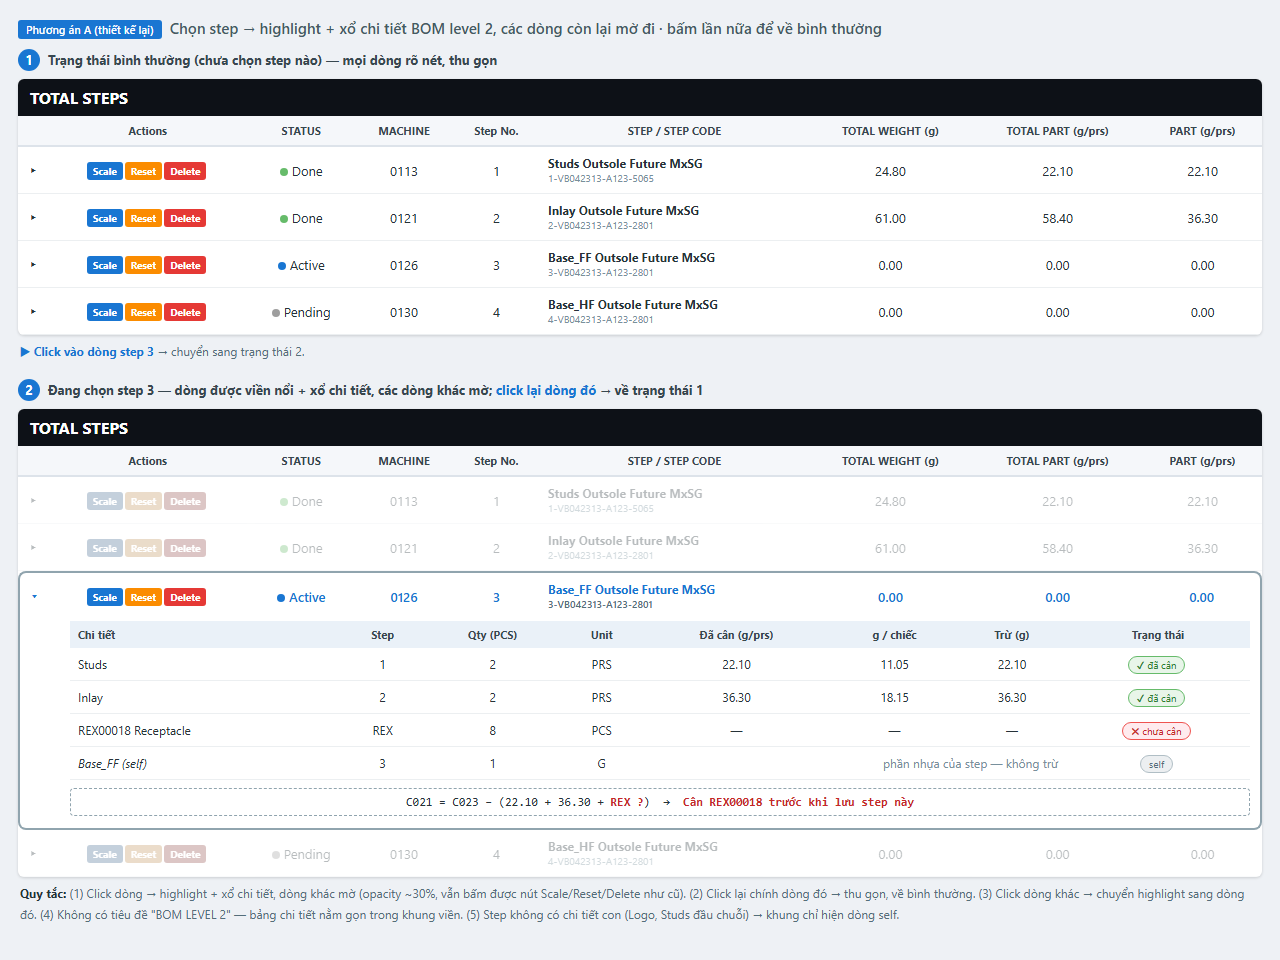
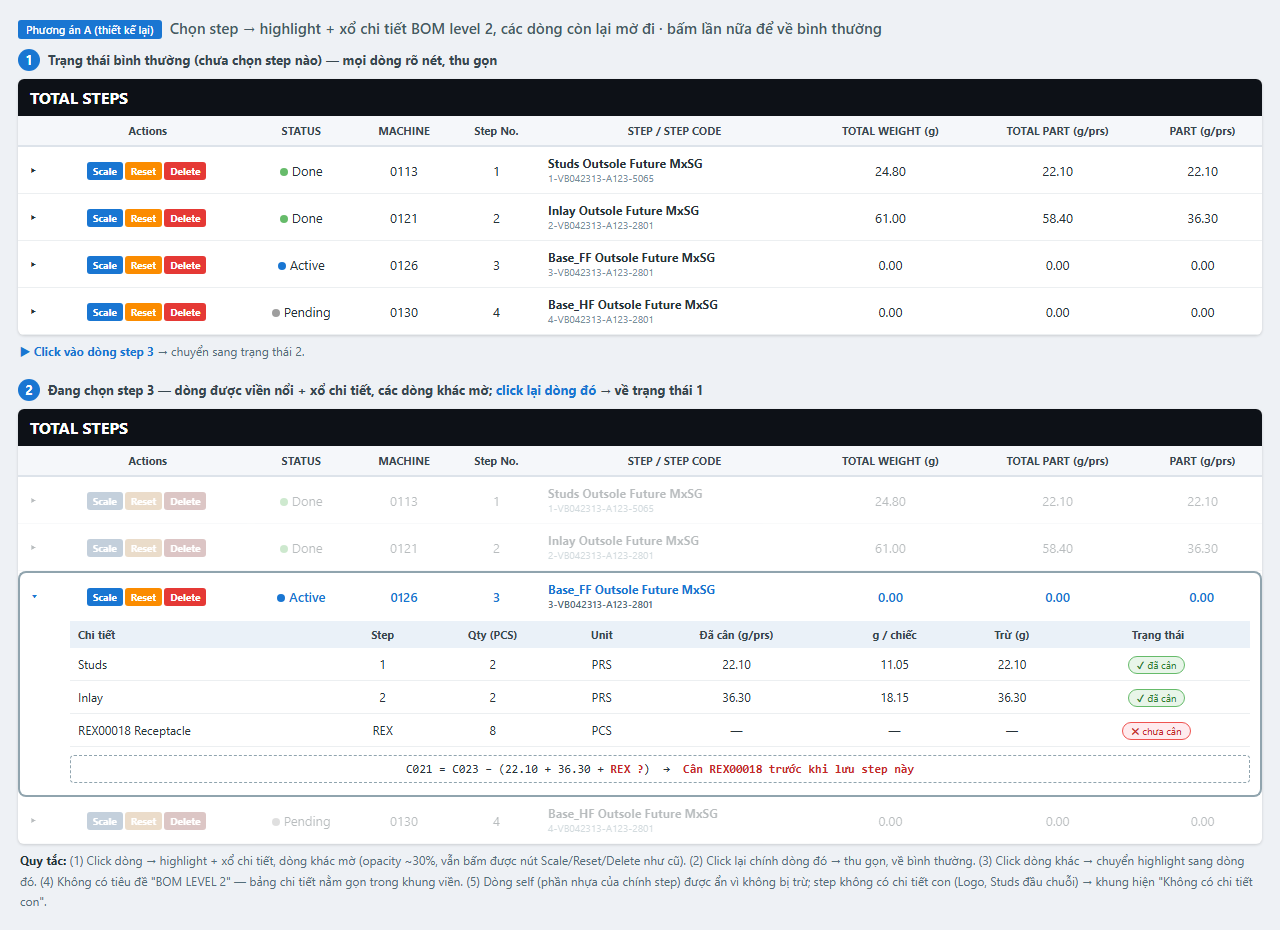
docs: BOM level 2 mockup v2 - hide self row in details

diff --git a/SSSW/docs/sessions/2026-11-04_status-column-align-bom-l2-ui-options.md b/SSSW/docs/sessions/2026-11-04_status-column-align-bom-l2-ui-options.md
@@ -14,5 +14,5 @@
 - Hiểu "gạch chân đều nhau" là căn thẳng hàng theo chiều dọc của ô STATUS với các cột còn lại; nếu ý khác (đường kẻ ngang giữa các dòng) cần ảnh rõ hơn.
 
 ## Việc còn mở
-- Người dùng chọn phương án A; đã vẽ bản thiết kế lại `docs/image/bom_level2_option_A_v2_highlight.png` (highlight + mờ dòng khác, click lại để bỏ chọn, bỏ tiêu đề). **Chờ duyệt** rồi mới code.
+- Người dùng chọn phương án A; đã vẽ bản thiết kế lại `docs/image/bom_level2_option_A_v2_highlight.png` (highlight + mờ dòng khác, click lại để bỏ chọn, bỏ tiêu đề). Đã bỏ dòng self trong bảng chi tiết theo phản hồi (giữ hàng tiêu đề cột). **Chờ duyệt** rồi mới code.
 - Chưa chạy app để xác nhận căn lề bằng mắt.
